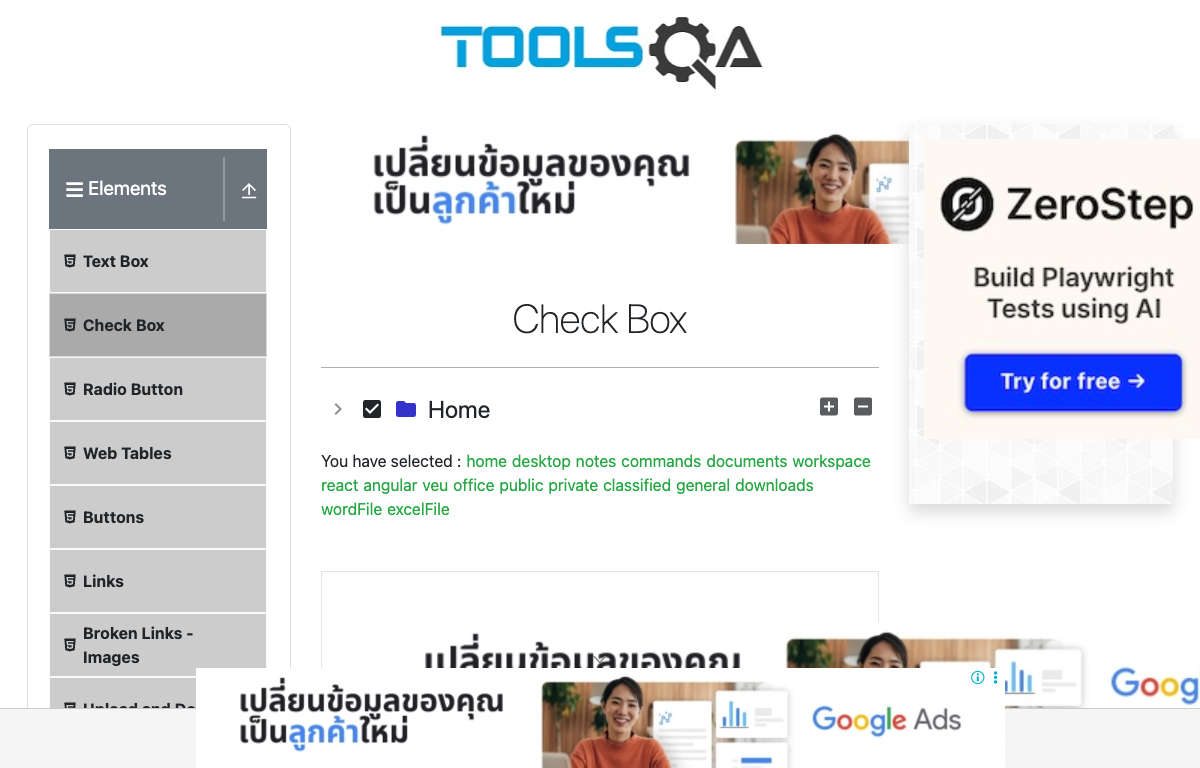
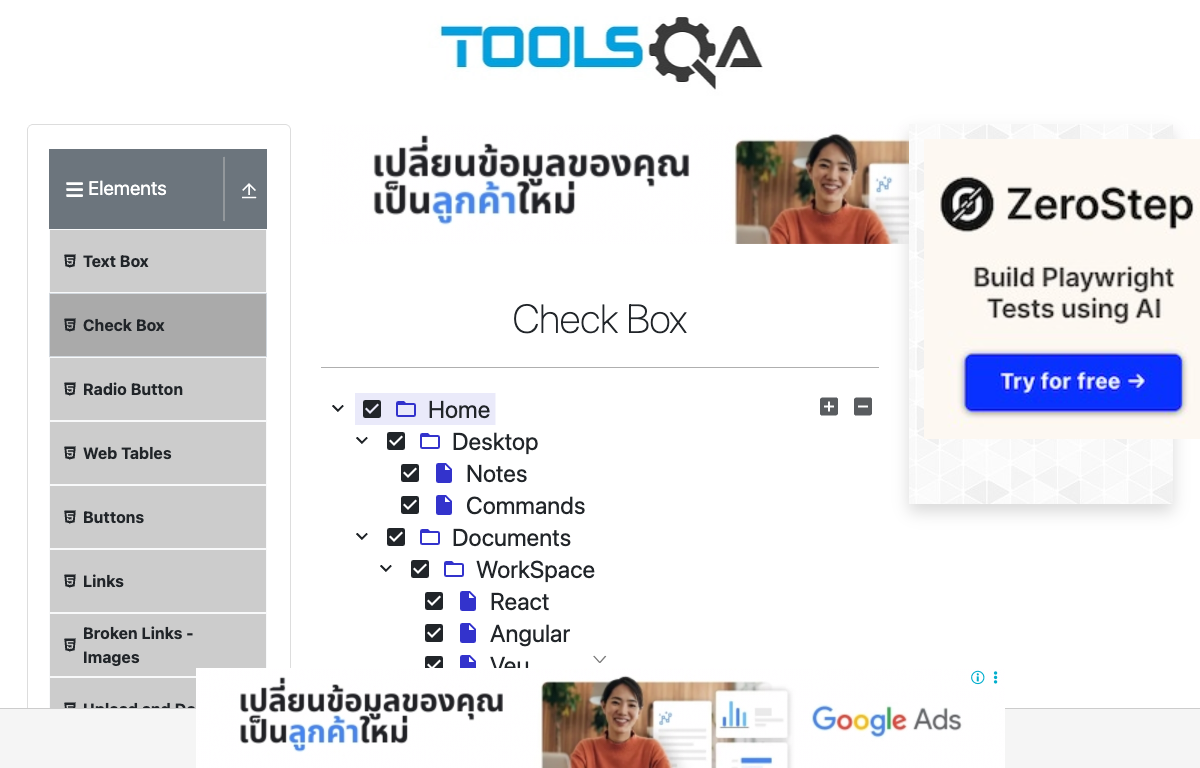
Add TestCase2 with name and screenshot

Changed region(s): [[0.2775, 0.5625, 0.74, 0.875], [0.6475, 0.8125, 0.8942, 0.9062], [0.925, 0.875, 1.0, 0.9375]]

diff --git a/Testcase/log.html b/Testcase/log.html
@@ -2074,25 +2074,25 @@ storage = function () {
 window.output = {};
 </script>
 <script type="text/javascript">
-window.output["suite"] = [1,2,3,0,[],[1,0,10268],[],[[4,0,0,[5],[1,148,10021],[[0,6,7,0,0,8,0,0,[1,149,9378],[[0,9,10,0,11,12,0,13,[1,149,2644],[[150,2,14],[230,2,15],[2793,2,16]]],[0,17,10,0,18,19,0,13,[1,2794,48],[[2796,2,20],[2842,2,21],[2842,2,22]]],[0,23,10,0,24,25,0,13,[1,2842,6684],[[9524,2,26]]]]],[0,27,7,0,0,28,0,0,[1,9527,108],[[0,29,10,0,30,31,0,32,[1,9528,107],[[9529,2,33]]]]],[0,34,10,0,35,0,0,36,[1,9636,177],[[9813,2,37]]],[0,27,7,0,0,28,0,0,[1,9813,45],[[0,29,10,0,30,31,0,32,[1,9813,44],[[9814,2,33]]]]],[0,34,10,0,35,0,0,36,[1,9858,312],[[10169,2,38]]],[10184,2,39],[10193,2,40],[10266,2,41]]]],[],[1,1,0,0]];
+window.output["suite"] = [1,2,3,0,[],[1,0,12227],[],[[4,0,0,[5],[1,156,11887],[[0,6,7,0,0,8,0,0,[1,156,11269],[[0,9,10,0,11,12,0,13,[1,157,2877],[[157,2,14],[249,2,15],[3033,2,16]]],[0,17,10,0,18,19,0,13,[1,3035,27],[[3043,2,20],[3062,2,21],[3062,2,22]]],[0,23,10,0,24,25,0,13,[1,3062,8362],[[11423,2,26]]]]],[0,27,10,0,28,29,0,30,[1,11427,81],[[11429,2,31]]],[0,32,7,0,0,33,0,0,[1,11508,32],[[0,27,10,0,28,34,0,30,[1,11508,32],[[11509,2,35]]]]],[0,36,10,0,37,0,0,38,[1,11540,159],[[11699,2,39]]],[0,32,7,0,0,40,0,0,[1,11699,34],[[0,27,10,0,28,34,0,30,[1,11699,34],[[11700,2,41]]]]],[0,36,10,0,37,0,0,38,[1,11733,122],[[11855,2,42]]],[0,32,7,0,0,43,0,0,[1,11856,61],[[0,27,10,0,28,34,0,30,[1,11856,61],[[11856,2,44]]]]],[0,36,10,0,37,0,0,38,[1,11917,125],[[12043,2,45]]],[12063,2,46],[12085,2,47],[12225,2,48]]]],[],[1,1,0,0]];
 </script>
 <script type="text/javascript">
 window.output["strings"] = [];
 </script>
 <script type="text/javascript">
[2 lines of base64/hex data omitted]
 </script>
 <script type="text/javascript">
-window.output["stats"] = [[{"elapsed":"00:00:10","fail":0,"label":"All Tests","pass":1,"skip":0}],[{"elapsed":"00:00:10","fail":0,"label":"TestCase2","pass":1,"skip":0}],[{"elapsed":"00:00:10","fail":0,"id":"s1","label":"Assignment","name":"Assignment","pass":1,"skip":0}]];
+window.output["stats"] = [[{"elapsed":"00:00:12","fail":0,"label":"All Tests","pass":1,"skip":0}],[{"elapsed":"00:00:12","fail":0,"label":"TestCase2","pass":1,"skip":0}],[{"elapsed":"00:00:12","fail":0,"id":"s1","label":"Assignment","name":"Assignment","pass":1,"skip":0}]];
 </script>
 <script type="text/javascript">
 window.output["errors"] = [];
 </script>
 <script type="text/javascript">
-window.output["baseMillis"] = 1756452912480;
+window.output["baseMillis"] = 1756454964037;
 </script>
 <script type="text/javascript">
-window.output["generated"] = 10290;
+window.output["generated"] = 12254;
 </script>
 <script type="text/javascript">
 window.output["expand_keywords"] = null;

diff --git a/Testcase/report.html b/Testcase/report.html
@@ -1887,7 +1887,7 @@ storage = function () {
 window.output = {};
 </script>
 <script type="text/javascript">
-window.output["suite"] = [1,2,3,0,[],[1,0,10268],[],[[4,0,0,[5],[1,148,10021],[]]],[],[1,1,0,0]];
+window.output["suite"] = [1,2,3,0,[],[1,0,12227],[],[[4,0,0,[5],[1,156,11887],[]]],[],[1,1,0,0]];
 </script>
 <script type="text/javascript">
 window.output["strings"] = [];
@@ -1896,13 +1896,13 @@ window.output["strings"] = [];
 window.output["strings"] = window.output["strings"].concat(["*","*Assignment","*/Users/mindmc/Desktop/Assignment-1/Testcase/assignment.robot","*assignment.robot","*Toggle Checkbox","*TestCase2"]);
 </script>
 <script type="text/javascript">
-window.output["stats"] = [[{"elapsed":"00:00:10","fail":0,"label":"All Tests","pass":1,"skip":0}],[{"elapsed":"00:00:10","fail":0,"label":"TestCase2","pass":1,"skip":0}],[{"elapsed":"00:00:10","fail":0,"id":"s1","label":"Assignment","name":"Assignment","pass":1,"skip":0}]];
+window.output["stats"] = [[{"elapsed":"00:00:12","fail":0,"label":"All Tests","pass":1,"skip":0}],[{"elapsed":"00:00:12","fail":0,"label":"TestCase2","pass":1,"skip":0}],[{"elapsed":"00:00:12","fail":0,"id":"s1","label":"Assignment","name":"Assignment","pass":1,"skip":0}]];
 </script>
 <script type="text/javascript">
-window.output["baseMillis"] = 1756452912480;
+window.output["baseMillis"] = 1756454964037;
 </script>
 <script type="text/javascript">
-window.output["generated"] = 10290;
+window.output["generated"] = 12254;
 </script>
 <script type="text/javascript">
 window.output["expand_keywords"] = null;
